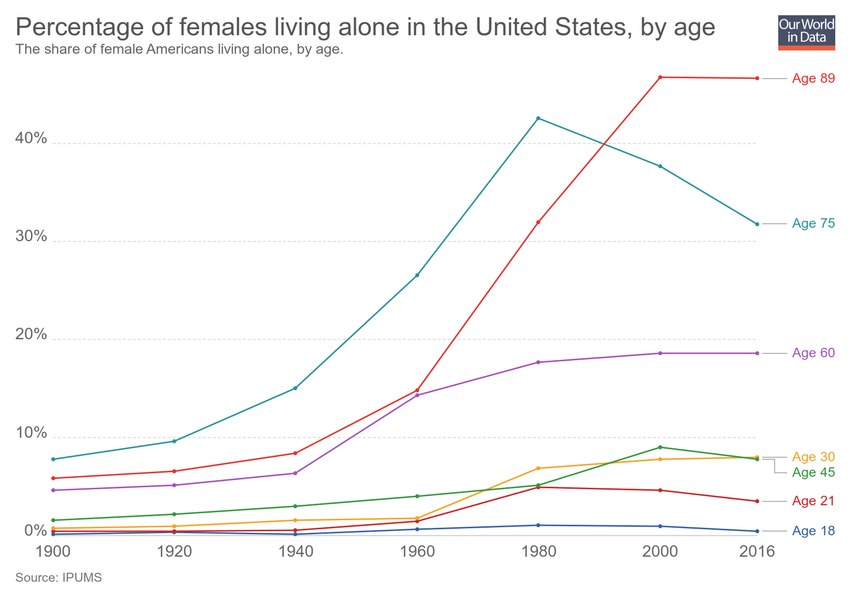
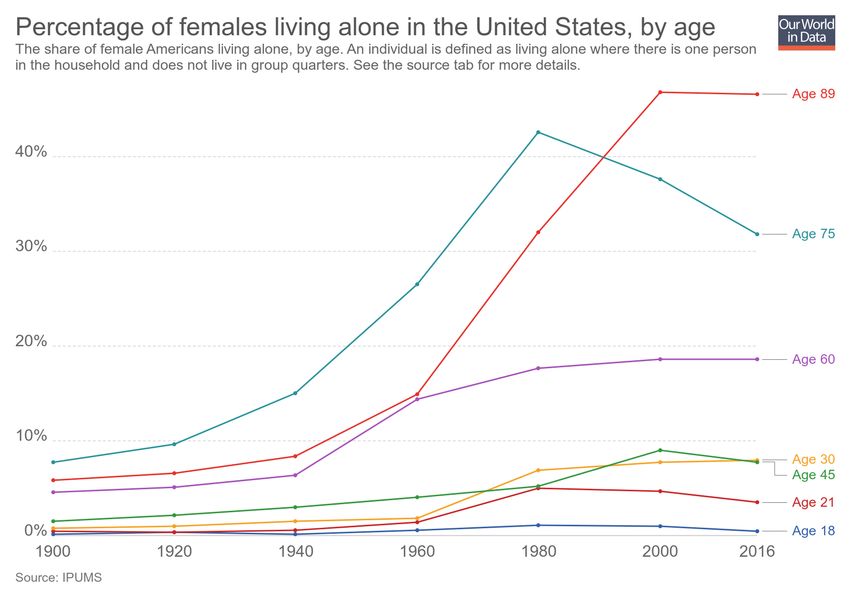
Updating chart percentage-of-females-living-alone-in-the-united-states-by-age

diff --git a/grapher/percentage-of-americans-living-alone-by-age.html b/grapher/percentage-of-americans-living-alone-by-age.html
@@ -1,4 +1,4 @@
-<!doctype html><html><head><meta name="viewport" content="width=device-width, initial-scale=1" /><title>Percentage of Americans living alone, by age - Our World in Data</title><meta name="description" content="The share of Americans living alone, by age. An individual is defined as living alone where there is one person in the household and those who do not live in group quarters. See the source tab for more details." /><link rel="canonical" href="https://ourworldindata.org/grapher/percentage-of-americans-living-alone-by-age" /><meta property="fb:app_id" content="1149943818390250" /><meta property="og:url" content="https://ourworldindata.org/grapher/percentage-of-americans-living-alone-by-age" /><meta property="og:title" content="Percentage of Americans living alone, by age" /><meta property="og:description" content="The share of Americans living alone, by age. An individual is defined as living alone where there is one person in the household and those who do not live in group quarters. See the source tab for more details." /><meta property="og:image" content="https://ourworldindata.org/grapher/exports/percentage-of-americans-living-alone-by-age.png?v=5" /><meta property="og:image:width" content="850" /><meta property="og:image:height" content="600" /><meta property="og:site_name" content="Our World in Data" /><meta name="twitter:card" content="summary_large_image" /><meta name="twitter:site" content="@OurWorldInData" /><meta name="twitter:creator" content="@OurWorldInData" /><meta name="twitter:title" content="Percentage of Americans living alone, by age" /><meta name="twitter:description" content="The share of Americans living alone, by age. An individual is defined as living alone where there is one person in the household and those who do not live in group quarters. See the source tab for more details." /><meta name="twitter:image" content="https://ourworldindata.org/grapher/exports/percentage-of-americans-living-alone-by-age.png?v=5" /><style>
+<!doctype html><html><head><meta name="viewport" content="width=device-width, initial-scale=1" /><title>Percentage of Americans living alone, by age - Our World in Data</title><meta name="description" content="The share of Americans living alone, by age. An individual is defined as living alone where there is one person in the household and does not live in group quarters. See the source tab for more details." /><link rel="canonical" href="https://ourworldindata.org/grapher/percentage-of-americans-living-alone-by-age" /><meta property="fb:app_id" content="1149943818390250" /><meta property="og:url" content="https://ourworldindata.org/grapher/percentage-of-americans-living-alone-by-age" /><meta property="og:title" content="Percentage of Americans living alone, by age" /><meta property="og:description" content="The share of Americans living alone, by age. An individual is defined as living alone where there is one person in the household and does not live in group quarters. See the source tab for more details." /><meta property="og:image" content="https://ourworldindata.org/grapher/exports/percentage-of-americans-living-alone-by-age.png?v=6" /><meta property="og:image:width" content="850" /><meta property="og:image:height" content="600" /><meta property="og:site_name" content="Our World in Data" /><meta name="twitter:card" content="summary_large_image" /><meta name="twitter:site" content="@OurWorldInData" /><meta name="twitter:creator" content="@OurWorldInData" /><meta name="twitter:title" content="Percentage of Americans living alone, by age" /><meta name="twitter:description" content="The share of Americans living alone, by age. An individual is defined as living alone where there is one person in the household and does not live in group quarters. See the source tab for more details." /><meta name="twitter:image" content="https://ourworldindata.org/grapher/exports/percentage-of-americans-living-alone-by-age.png?v=6" /><style>
         html, body {
             height: 100%;
             margin: 0;
@@ -20,8 +20,8 @@
         }
     </style><noscript><style>
                     figure { display: none !important; }
-                </style></noscript><link rel="stylesheet" href="https://ourworldindata.org/grapher/assets/commons.bundle.0187c87ba84a83fbad86.css" /><link rel="preload" href="/grapher/data/variables/97932.json?v=5" as="fetch" crossorigin /></head><body class="singleChart"><figure data-grapher-src="/grapher/percentage-of-americans-living-alone-by-age"></figure><noscript id="fallback"><img src="/grapher/exports/percentage-of-americans-living-alone-by-age.svg" /><p>Interactive visualization requires JavaScript</p></noscript><script src="https://cdn.polyfill.io/v2/polyfill.min.js?features=es6,fetch"></script><script src="https://ourworldindata.org/grapher/assets/commons.bundle.0187c87ba84a83fbad86.js"></script><script src="https://ourworldindata.org/grapher/assets/charts.bundle.0187c87ba84a83fbad86.js"></script><script>
-        var jsonConfig = {"id":3004,"map":{"projection":"World","colorSchemeLabels":[],"colorSchemeValues":[],"customNumericColors":[],"customCategoryColors":{},"customCategoryLabels":{},"customHiddenCategories":{}},"tab":"chart","slug":"percentage-of-americans-living-alone-by-age","type":"LineChart","title":"Percentage of Americans living alone, by age","xAxis":{"scaleType":"linear"},"yAxis":{"min":0,"scaleType":"linear"},"version":5,"subtitle":"The share of Americans living alone, by age. An individual is defined as living alone where there is one person in the household and those who do not live in group quarters. See the source tab for more details.","hasMapTab":false,"stackMode":"absolute","dimensions":[{"display":{},"property":"y","variableId":97932}],"entityType":"age","hasChartTab":true,"isPublished":true,"selectedData":[{"index":0,"entityId":38087},{"index":0,"entityId":38088},{"index":0,"entityId":38089},{"index":0,"entityId":38090},{"index":0,"entityId":38091},{"index":0,"entityId":38092},{"index":0,"entityId":38093}],"addCountryMode":"add-country"};
+                </style></noscript><link rel="stylesheet" href="https://ourworldindata.org/grapher/assets/commons.bundle.0187c87ba84a83fbad86.css" /><link rel="preload" href="/grapher/data/variables/97932.json?v=6" as="fetch" crossorigin /></head><body class="singleChart"><figure data-grapher-src="/grapher/percentage-of-americans-living-alone-by-age"></figure><noscript id="fallback"><img src="/grapher/exports/percentage-of-americans-living-alone-by-age.svg" /><p>Interactive visualization requires JavaScript</p></noscript><script src="https://cdn.polyfill.io/v2/polyfill.min.js?features=es6,fetch"></script><script src="https://ourworldindata.org/grapher/assets/commons.bundle.0187c87ba84a83fbad86.js"></script><script src="https://ourworldindata.org/grapher/assets/charts.bundle.0187c87ba84a83fbad86.js"></script><script>
+        var jsonConfig = {"id":3004,"map":{"projection":"World","colorSchemeLabels":[],"colorSchemeValues":[],"customNumericColors":[],"customCategoryColors":{},"customCategoryLabels":{},"customHiddenCategories":{}},"tab":"chart","slug":"percentage-of-americans-living-alone-by-age","type":"LineChart","title":"Percentage of Americans living alone, by age","xAxis":{"scaleType":"linear"},"yAxis":{"min":0,"scaleType":"linear"},"version":6,"subtitle":"The share of Americans living alone, by age. An individual is defined as living alone where there is one person in the household and does not live in group quarters. See the source tab for more details.","hasMapTab":false,"stackMode":"absolute","dimensions":[{"display":{},"property":"y","variableId":97932}],"entityType":"age","hasChartTab":true,"isPublished":true,"selectedData":[{"index":0,"entityId":38087},{"index":0,"entityId":38088},{"index":0,"entityId":38089},{"index":0,"entityId":38090},{"index":0,"entityId":38091},{"index":0,"entityId":38092},{"index":0,"entityId":38093}],"addCountryMode":"add-country"};
         var figure = document.getElementsByTagName("figure")[0];
         try {
             window.App = {};

diff --git a/grapher/percentage-of-females-living-alone-in-the-united-states-by-age.html b/grapher/percentage-of-females-living-alone-in-the-united-states-by-age.html
@@ -1,4 +1,4 @@
-<!doctype html><html><head><meta name="viewport" content="width=device-width, initial-scale=1" /><title>Percentage of females living alone in the United States, by age - Our World in Data</title><meta name="description" content="The share of female Americans living alone, by age." /><link rel="canonical" href="https://ourworldindata.org/grapher/percentage-of-females-living-alone-in-the-united-states-by-age" /><meta property="fb:app_id" content="1149943818390250" /><meta property="og:url" content="https://ourworldindata.org/grapher/percentage-of-females-living-alone-in-the-united-states-by-age" /><meta property="og:title" content="Percentage of females living alone in the United States, by age" /><meta property="og:description" content="The share of female Americans living alone, by age." /><meta property="og:image" content="https://ourworldindata.org/grapher/exports/percentage-of-females-living-alone-in-the-united-states-by-age.png?v=1" /><meta property="og:image:width" content="850" /><meta property="og:image:height" content="600" /><meta property="og:site_name" content="Our World in Data" /><meta name="twitter:card" content="summary_large_image" /><meta name="twitter:site" content="@OurWorldInData" /><meta name="twitter:creator" content="@OurWorldInData" /><meta name="twitter:title" content="Percentage of females living alone in the United States, by age" /><meta name="twitter:description" content="The share of female Americans living alone, by age." /><meta name="twitter:image" content="https://ourworldindata.org/grapher/exports/percentage-of-females-living-alone-in-the-united-states-by-age.png?v=1" /><style>
+<!doctype html><html><head><meta name="viewport" content="width=device-width, initial-scale=1" /><title>Percentage of females living alone in the United States, by age - Our World in Data</title><meta name="description" content="The share of female Americans living alone, by age. An individual is defined as living alone where there is one person in the household and does not live in group quarters. See the source tab for more details." /><link rel="canonical" href="https://ourworldindata.org/grapher/percentage-of-females-living-alone-in-the-united-states-by-age" /><meta property="fb:app_id" content="1149943818390250" /><meta property="og:url" content="https://ourworldindata.org/grapher/percentage-of-females-living-alone-in-the-united-states-by-age" /><meta property="og:title" content="Percentage of females living alone in the United States, by age" /><meta property="og:description" content="The share of female Americans living alone, by age. An individual is defined as living alone where there is one person in the household and does not live in group quarters. See the source tab for more details." /><meta property="og:image" content="https://ourworldindata.org/grapher/exports/percentage-of-females-living-alone-in-the-united-states-by-age.png?v=2" /><meta property="og:image:width" content="850" /><meta property="og:image:height" content="600" /><meta property="og:site_name" content="Our World in Data" /><meta name="twitter:card" content="summary_large_image" /><meta name="twitter:site" content="@OurWorldInData" /><meta name="twitter:creator" content="@OurWorldInData" /><meta name="twitter:title" content="Percentage of females living alone in the United States, by age" /><meta name="twitter:description" content="The share of female Americans living alone, by age. An individual is defined as living alone where there is one person in the household and does not live in group quarters. See the source tab for more details." /><meta name="twitter:image" content="https://ourworldindata.org/grapher/exports/percentage-of-females-living-alone-in-the-united-states-by-age.png?v=2" /><style>
         html, body {
             height: 100%;
             margin: 0;
@@ -20,8 +20,8 @@
         }
     </style><noscript><style>
                     figure { display: none !important; }
-                </style></noscript><link rel="stylesheet" href="https://ourworldindata.org/grapher/assets/commons.bundle.0187c87ba84a83fbad86.css" /><link rel="preload" href="/grapher/data/variables/97934.json?v=1" as="fetch" crossorigin /></head><body class="singleChart"><figure data-grapher-src="/grapher/percentage-of-females-living-alone-in-the-united-states-by-age"></figure><noscript id="fallback"><img src="/grapher/exports/percentage-of-females-living-alone-in-the-united-states-by-age.svg" /><p>Interactive visualization requires JavaScript</p></noscript><script src="https://cdn.polyfill.io/v2/polyfill.min.js?features=es6,fetch"></script><script src="https://ourworldindata.org/grapher/assets/commons.bundle.0187c87ba84a83fbad86.js"></script><script src="https://ourworldindata.org/grapher/assets/charts.bundle.0187c87ba84a83fbad86.js"></script><script>
-        var jsonConfig = {"map":{"projection":"World","colorSchemeLabels":[],"colorSchemeValues":[],"customNumericColors":[],"customCategoryColors":{},"customCategoryLabels":{},"customHiddenCategories":{}},"tab":"chart","slug":"percentage-of-females-living-alone-in-the-united-states-by-age","type":"LineChart","title":"Percentage of females living alone in the United States, by age","xAxis":{"scaleType":"linear"},"yAxis":{"min":0,"scaleType":"linear"},"version":1,"subtitle":"The share of female Americans living alone, by age.","hasMapTab":false,"stackMode":"absolute","dimensions":[{"display":{},"property":"y","variableId":97934}],"isAutoSlug":true,"hasChartTab":true,"isPublished":true,"selectedData":[{"index":0,"entityId":38087},{"index":0,"entityId":38088},{"index":0,"entityId":38089},{"index":0,"entityId":38090},{"index":0,"entityId":38091},{"index":0,"entityId":38092},{"index":0,"entityId":38093}],"addCountryMode":"add-country","id":3005};
+                </style></noscript><link rel="stylesheet" href="https://ourworldindata.org/grapher/assets/commons.bundle.0187c87ba84a83fbad86.css" /><link rel="preload" href="/grapher/data/variables/97934.json?v=2" as="fetch" crossorigin /></head><body class="singleChart"><figure data-grapher-src="/grapher/percentage-of-females-living-alone-in-the-united-states-by-age"></figure><noscript id="fallback"><img src="/grapher/exports/percentage-of-females-living-alone-in-the-united-states-by-age.svg" /><p>Interactive visualization requires JavaScript</p></noscript><script src="https://cdn.polyfill.io/v2/polyfill.min.js?features=es6,fetch"></script><script src="https://ourworldindata.org/grapher/assets/commons.bundle.0187c87ba84a83fbad86.js"></script><script src="https://ourworldindata.org/grapher/assets/charts.bundle.0187c87ba84a83fbad86.js"></script><script>
+        var jsonConfig = {"id":3005,"map":{"projection":"World","colorSchemeLabels":[],"colorSchemeValues":[],"customNumericColors":[],"customCategoryColors":{},"customCategoryLabels":{},"customHiddenCategories":{}},"tab":"chart","slug":"percentage-of-females-living-alone-in-the-united-states-by-age","type":"LineChart","title":"Percentage of females living alone in the United States, by age","xAxis":{"scaleType":"linear"},"yAxis":{"min":0,"scaleType":"linear"},"version":2,"subtitle":"The share of female Americans living alone, by age. An individual is defined as living alone where there is one person in the household and does not live in group quarters. See the source tab for more details.","hasMapTab":false,"stackMode":"absolute","dimensions":[{"display":{},"property":"y","variableId":97934}],"hasChartTab":true,"isPublished":true,"selectedData":[{"index":0,"entityId":38087},{"index":0,"entityId":38088},{"index":0,"entityId":38089},{"index":0,"entityId":38090},{"index":0,"entityId":38091},{"index":0,"entityId":38092},{"index":0,"entityId":38093}],"addCountryMode":"add-country"};
         var figure = document.getElementsByTagName("figure")[0];
         try {
             window.App = {};

diff --git a/grapher/percentage-of-males-living-alone-in-the-united-states-by-age.html b/grapher/percentage-of-males-living-alone-in-the-united-states-by-age.html
@@ -1,4 +1,4 @@
-<!doctype html><html><head><meta name="viewport" content="width=device-width, initial-scale=1" /><title>Percentage of males living alone in the United States, by age - Our World in Data</title><meta name="description" content="The share of male Americans living alone, by age." /><link rel="canonical" href="https://ourworldindata.org/grapher/percentage-of-males-living-alone-in-the-united-states-by-age" /><meta property="fb:app_id" content="1149943818390250" /><meta property="og:url" content="https://ourworldindata.org/grapher/percentage-of-males-living-alone-in-the-united-states-by-age" /><meta property="og:title" content="Percentage of males living alone in the United States, by age" /><meta property="og:description" content="The share of male Americans living alone, by age." /><meta property="og:image" content="https://ourworldindata.org/grapher/exports/percentage-of-males-living-alone-in-the-united-states-by-age.png?v=1" /><meta property="og:image:width" content="850" /><meta property="og:image:height" content="600" /><meta property="og:site_name" content="Our World in Data" /><meta name="twitter:card" content="summary_large_image" /><meta name="twitter:site" content="@OurWorldInData" /><meta name="twitter:creator" content="@OurWorldInData" /><meta name="twitter:title" content="Percentage of males living alone in the United States, by age" /><meta name="twitter:description" content="The share of male Americans living alone, by age." /><meta name="twitter:image" content="https://ourworldindata.org/grapher/exports/percentage-of-males-living-alone-in-the-united-states-by-age.png?v=1" /><style>
+<!doctype html><html><head><meta name="viewport" content="width=device-width, initial-scale=1" /><title>Percentage of males living alone in the United States, by age - Our World in Data</title><meta name="description" content="The share of male Americans living alone, by age. An individual is defined as living alone where there is one person in the household and does not live in group quarters. See the source tab for more details." /><link rel="canonical" href="https://ourworldindata.org/grapher/percentage-of-males-living-alone-in-the-united-states-by-age" /><meta property="fb:app_id" content="1149943818390250" /><meta property="og:url" content="https://ourworldindata.org/grapher/percentage-of-males-living-alone-in-the-united-states-by-age" /><meta property="og:title" content="Percentage of males living alone in the United States, by age" /><meta property="og:description" content="The share of male Americans living alone, by age. An individual is defined as living alone where there is one person in the household and does not live in group quarters. See the source tab for more details." /><meta property="og:image" content="https://ourworldindata.org/grapher/exports/percentage-of-males-living-alone-in-the-united-states-by-age.png?v=2" /><meta property="og:image:width" content="850" /><meta property="og:image:height" content="600" /><meta property="og:site_name" content="Our World in Data" /><meta name="twitter:card" content="summary_large_image" /><meta name="twitter:site" content="@OurWorldInData" /><meta name="twitter:creator" content="@OurWorldInData" /><meta name="twitter:title" content="Percentage of males living alone in the United States, by age" /><meta name="twitter:description" content="The share of male Americans living alone, by age. An individual is defined as living alone where there is one person in the household and does not live in group quarters. See the source tab for more details." /><meta name="twitter:image" content="https://ourworldindata.org/grapher/exports/percentage-of-males-living-alone-in-the-united-states-by-age.png?v=2" /><style>
         html, body {
             height: 100%;
             margin: 0;
@@ -20,8 +20,8 @@
         }
     </style><noscript><style>
                     figure { display: none !important; }
-                </style></noscript><link rel="stylesheet" href="https://ourworldindata.org/grapher/assets/commons.bundle.0187c87ba84a83fbad86.css" /><link rel="preload" href="/grapher/data/variables/97933.json?v=1" as="fetch" crossorigin /></head><body class="singleChart"><figure data-grapher-src="/grapher/percentage-of-males-living-alone-in-the-united-states-by-age"></figure><noscript id="fallback"><img src="/grapher/exports/percentage-of-males-living-alone-in-the-united-states-by-age.svg" /><p>Interactive visualization requires JavaScript</p></noscript><script src="https://cdn.polyfill.io/v2/polyfill.min.js?features=es6,fetch"></script><script src="https://ourworldindata.org/grapher/assets/commons.bundle.0187c87ba84a83fbad86.js"></script><script src="https://ourworldindata.org/grapher/assets/charts.bundle.0187c87ba84a83fbad86.js"></script><script>
-        var jsonConfig = {"map":{"projection":"World","colorSchemeLabels":[],"colorSchemeValues":[],"customNumericColors":[],"customCategoryColors":{},"customCategoryLabels":{},"customHiddenCategories":{}},"tab":"chart","slug":"percentage-of-males-living-alone-in-the-united-states-by-age","type":"LineChart","title":"Percentage of males living alone in the United States, by age","xAxis":{"scaleType":"linear"},"yAxis":{"min":0,"scaleType":"linear"},"version":1,"subtitle":"The share of male Americans living alone, by age.","hasMapTab":false,"stackMode":"absolute","dimensions":[{"display":{},"property":"y","variableId":97933}],"isAutoSlug":true,"hasChartTab":true,"isPublished":true,"selectedData":[{"index":0,"entityId":38087},{"index":0,"entityId":38088},{"index":0,"entityId":38089},{"index":0,"entityId":38090},{"index":0,"entityId":38091},{"index":0,"entityId":38092},{"index":0,"entityId":38093}],"addCountryMode":"add-country","id":3006};
+                </style></noscript><link rel="stylesheet" href="https://ourworldindata.org/grapher/assets/commons.bundle.0187c87ba84a83fbad86.css" /><link rel="preload" href="/grapher/data/variables/97933.json?v=2" as="fetch" crossorigin /></head><body class="singleChart"><figure data-grapher-src="/grapher/percentage-of-males-living-alone-in-the-united-states-by-age"></figure><noscript id="fallback"><img src="/grapher/exports/percentage-of-males-living-alone-in-the-united-states-by-age.svg" /><p>Interactive visualization requires JavaScript</p></noscript><script src="https://cdn.polyfill.io/v2/polyfill.min.js?features=es6,fetch"></script><script src="https://ourworldindata.org/grapher/assets/commons.bundle.0187c87ba84a83fbad86.js"></script><script src="https://ourworldindata.org/grapher/assets/charts.bundle.0187c87ba84a83fbad86.js"></script><script>
+        var jsonConfig = {"id":3006,"map":{"projection":"World","colorSchemeLabels":[],"colorSchemeValues":[],"customNumericColors":[],"customCategoryColors":{},"customCategoryLabels":{},"customHiddenCategories":{}},"tab":"chart","slug":"percentage-of-males-living-alone-in-the-united-states-by-age","type":"LineChart","title":"Percentage of males living alone in the United States, by age","xAxis":{"scaleType":"linear"},"yAxis":{"min":0,"scaleType":"linear"},"version":2,"subtitle":"The share of male Americans living alone, by age. An individual is defined as living alone where there is one person in the household and does not live in group quarters. See the source tab for more details.","hasMapTab":false,"stackMode":"absolute","dimensions":[{"display":{},"property":"y","variableId":97933}],"hasChartTab":true,"isPublished":true,"selectedData":[{"index":0,"entityId":38087},{"index":0,"entityId":38088},{"index":0,"entityId":38089},{"index":0,"entityId":38090},{"index":0,"entityId":38091},{"index":0,"entityId":38092},{"index":0,"entityId":38093}],"addCountryMode":"add-country"};
         var figure = document.getElementsByTagName("figure")[0];
         try {
             window.App = {};
